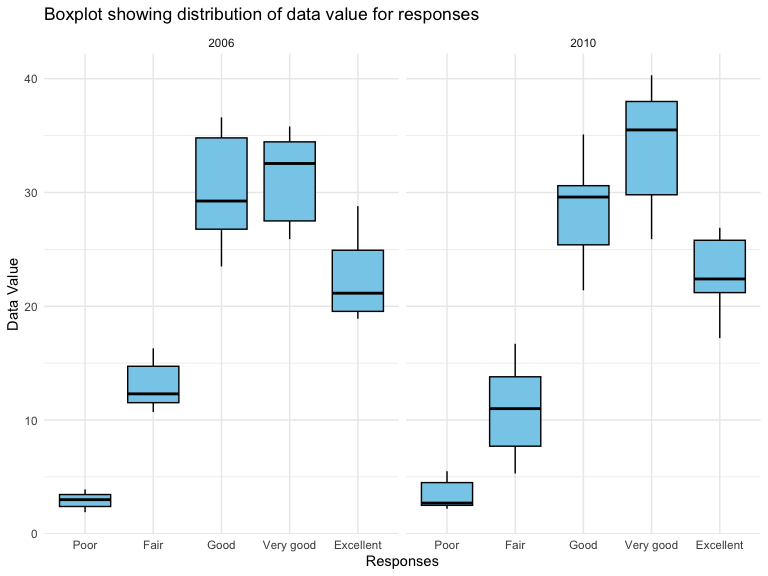
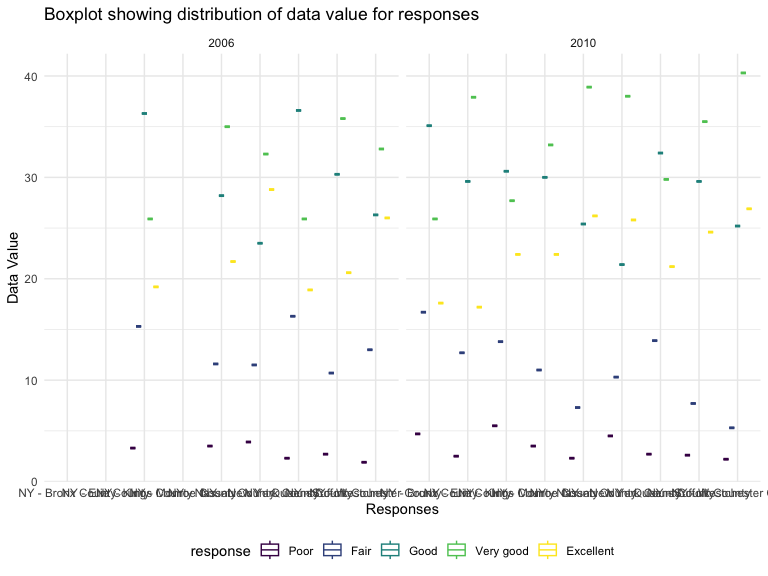
make change to graph

diff --git a/p8105_hw3_zx2482.md b/p8105_hw3_zx2482.md
@@ -83,8 +83,8 @@ brfss_NY_responses =
 ```
 
 ``` r
-ggplot(brfss_NY_responses, aes(x= response, y = data_value))+
-  geom_boxplot(fill="skyblue", color="black")+
+ggplot(brfss_NY_responses, aes( x = location, y = data_value, color = response))+
+  geom_boxplot()+
   labs(title="Boxplot showing distribution of data value for responses", x="Responses", y="Data Value") +
   facet_wrap(~year)
 ```
@@ -255,7 +255,7 @@ nhanes |>
   arrange(min) |> 
   summarize(mims_median = median(mims))|>
   ggplot(aes(x = min, y = mims_median, color = sex)) +
-  geom_line()+
+  geom_point(alpha = 0.5)+
   geom_smooth(method = lm, formula = y ~ x^2, se = FALSE) +
   labs(title = "Linegraph for Activity Over the Course of the Day",
        x = "Time in Minute",
